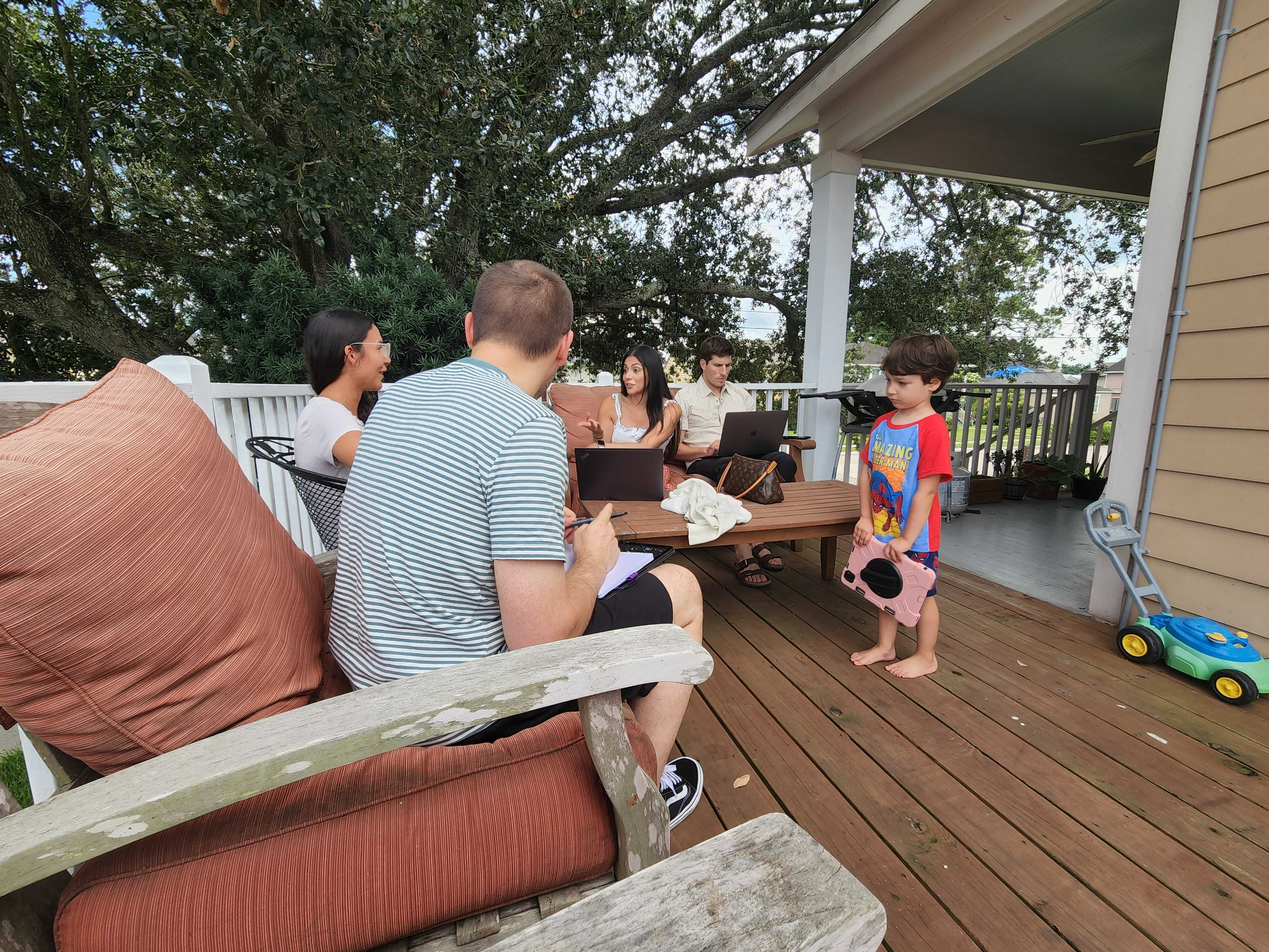
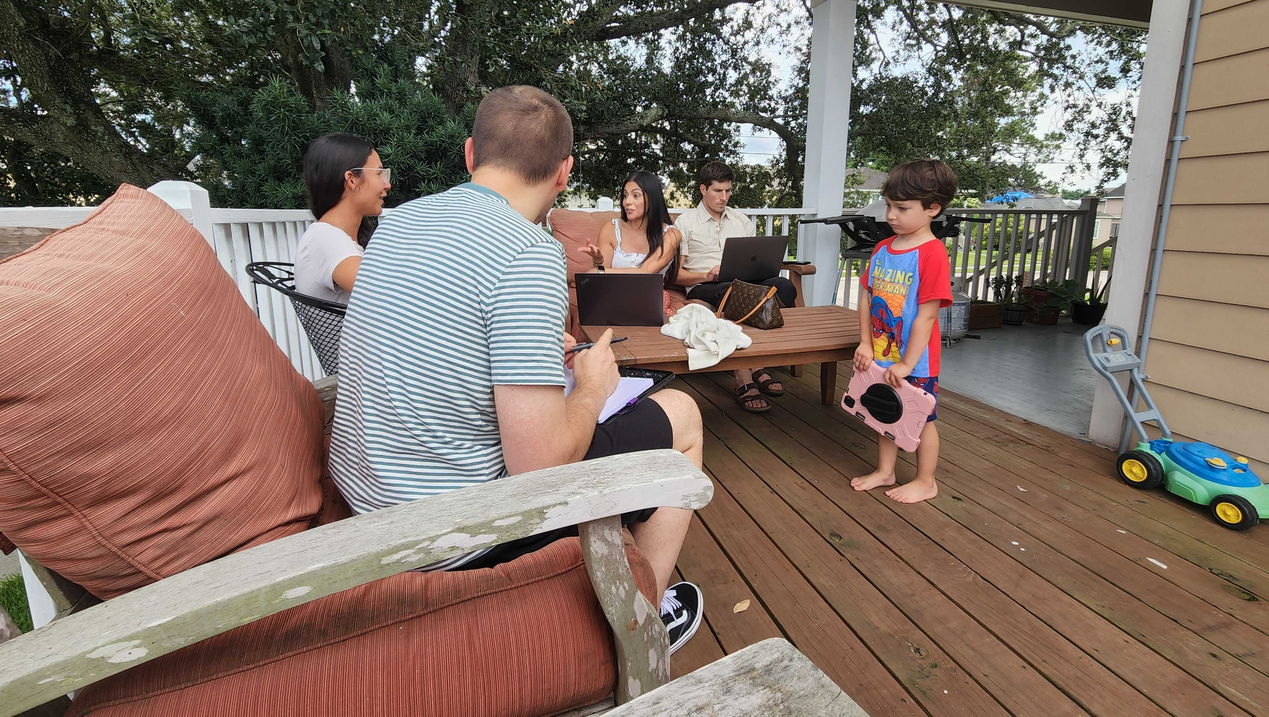
Crop the New Orleans research photo to match the other slides

diff --git a/projects/paytient/index.html b/projects/paytient/index.html
@@ -361,7 +361,7 @@
             <div class="carousel__track" tabindex="0">
               <div class="carousel__slide" role="group" aria-roledescription="slide" aria-label="1 of 3" data-caption="A research round in Maze on a redesigned welcome screen"><img src="/assets/img/projects/paytient/maze-report.png" width="1863" height="1053" alt="Maze report for an opinion-scale question on the welcome screen: 20 responses, 4.2 average" loading="lazy"></div>
               <div class="carousel__slide" role="group" aria-roledescription="slide" aria-label="2 of 3" data-caption="A research round in UserTesting.com on a low-fidelity onboarding prototype"><img src="/assets/img/projects/paytient/usertesting.png" width="1863" height="993" alt="UserTesting.com session recording of a tester on the onboarding prototype's agreements step, with timestamped notes" loading="lazy"></div>
-              <div class="carousel__slide" role="group" aria-roledescription="slide" aria-label="3 of 3" data-caption="An in-person research session with a Paytient member in New Orleans, June 2022"><img src="/assets/img/projects/paytient/research-new-orleans.jpg" width="4000" height="3000" alt="The research team talking with a Paytient member and her family on their porch, with laptops and notes on the table" loading="lazy"></div>
+              <div class="carousel__slide" role="group" aria-roledescription="slide" aria-label="3 of 3" data-caption="An in-person research session with a Paytient member in New Orleans, June 2022"><img src="/assets/img/projects/paytient/research-new-orleans.jpg" width="4000" height="2261" alt="The research team talking with a Paytient member and her family on their porch, with laptops and notes on the table" loading="lazy"></div>
             </div>
             <button class="carousel__btn carousel__btn--prev" type="button" aria-label="Previous research round"><svg viewBox="0 0 24 24" fill="none" aria-hidden="true"><path d="M15 6l-6 6 6 6" stroke="currentColor" stroke-width="1.75" stroke-linecap="round" stroke-linejoin="round"/></svg></button>
             <button class="carousel__btn carousel__btn--next" type="button" aria-label="Next research round"><svg viewBox="0 0 24 24" fill="none" aria-hidden="true"><path d="M9 6l6 6-6 6" stroke="currentColor" stroke-width="1.75" stroke-linecap="round" stroke-linejoin="round"/></svg></button>
